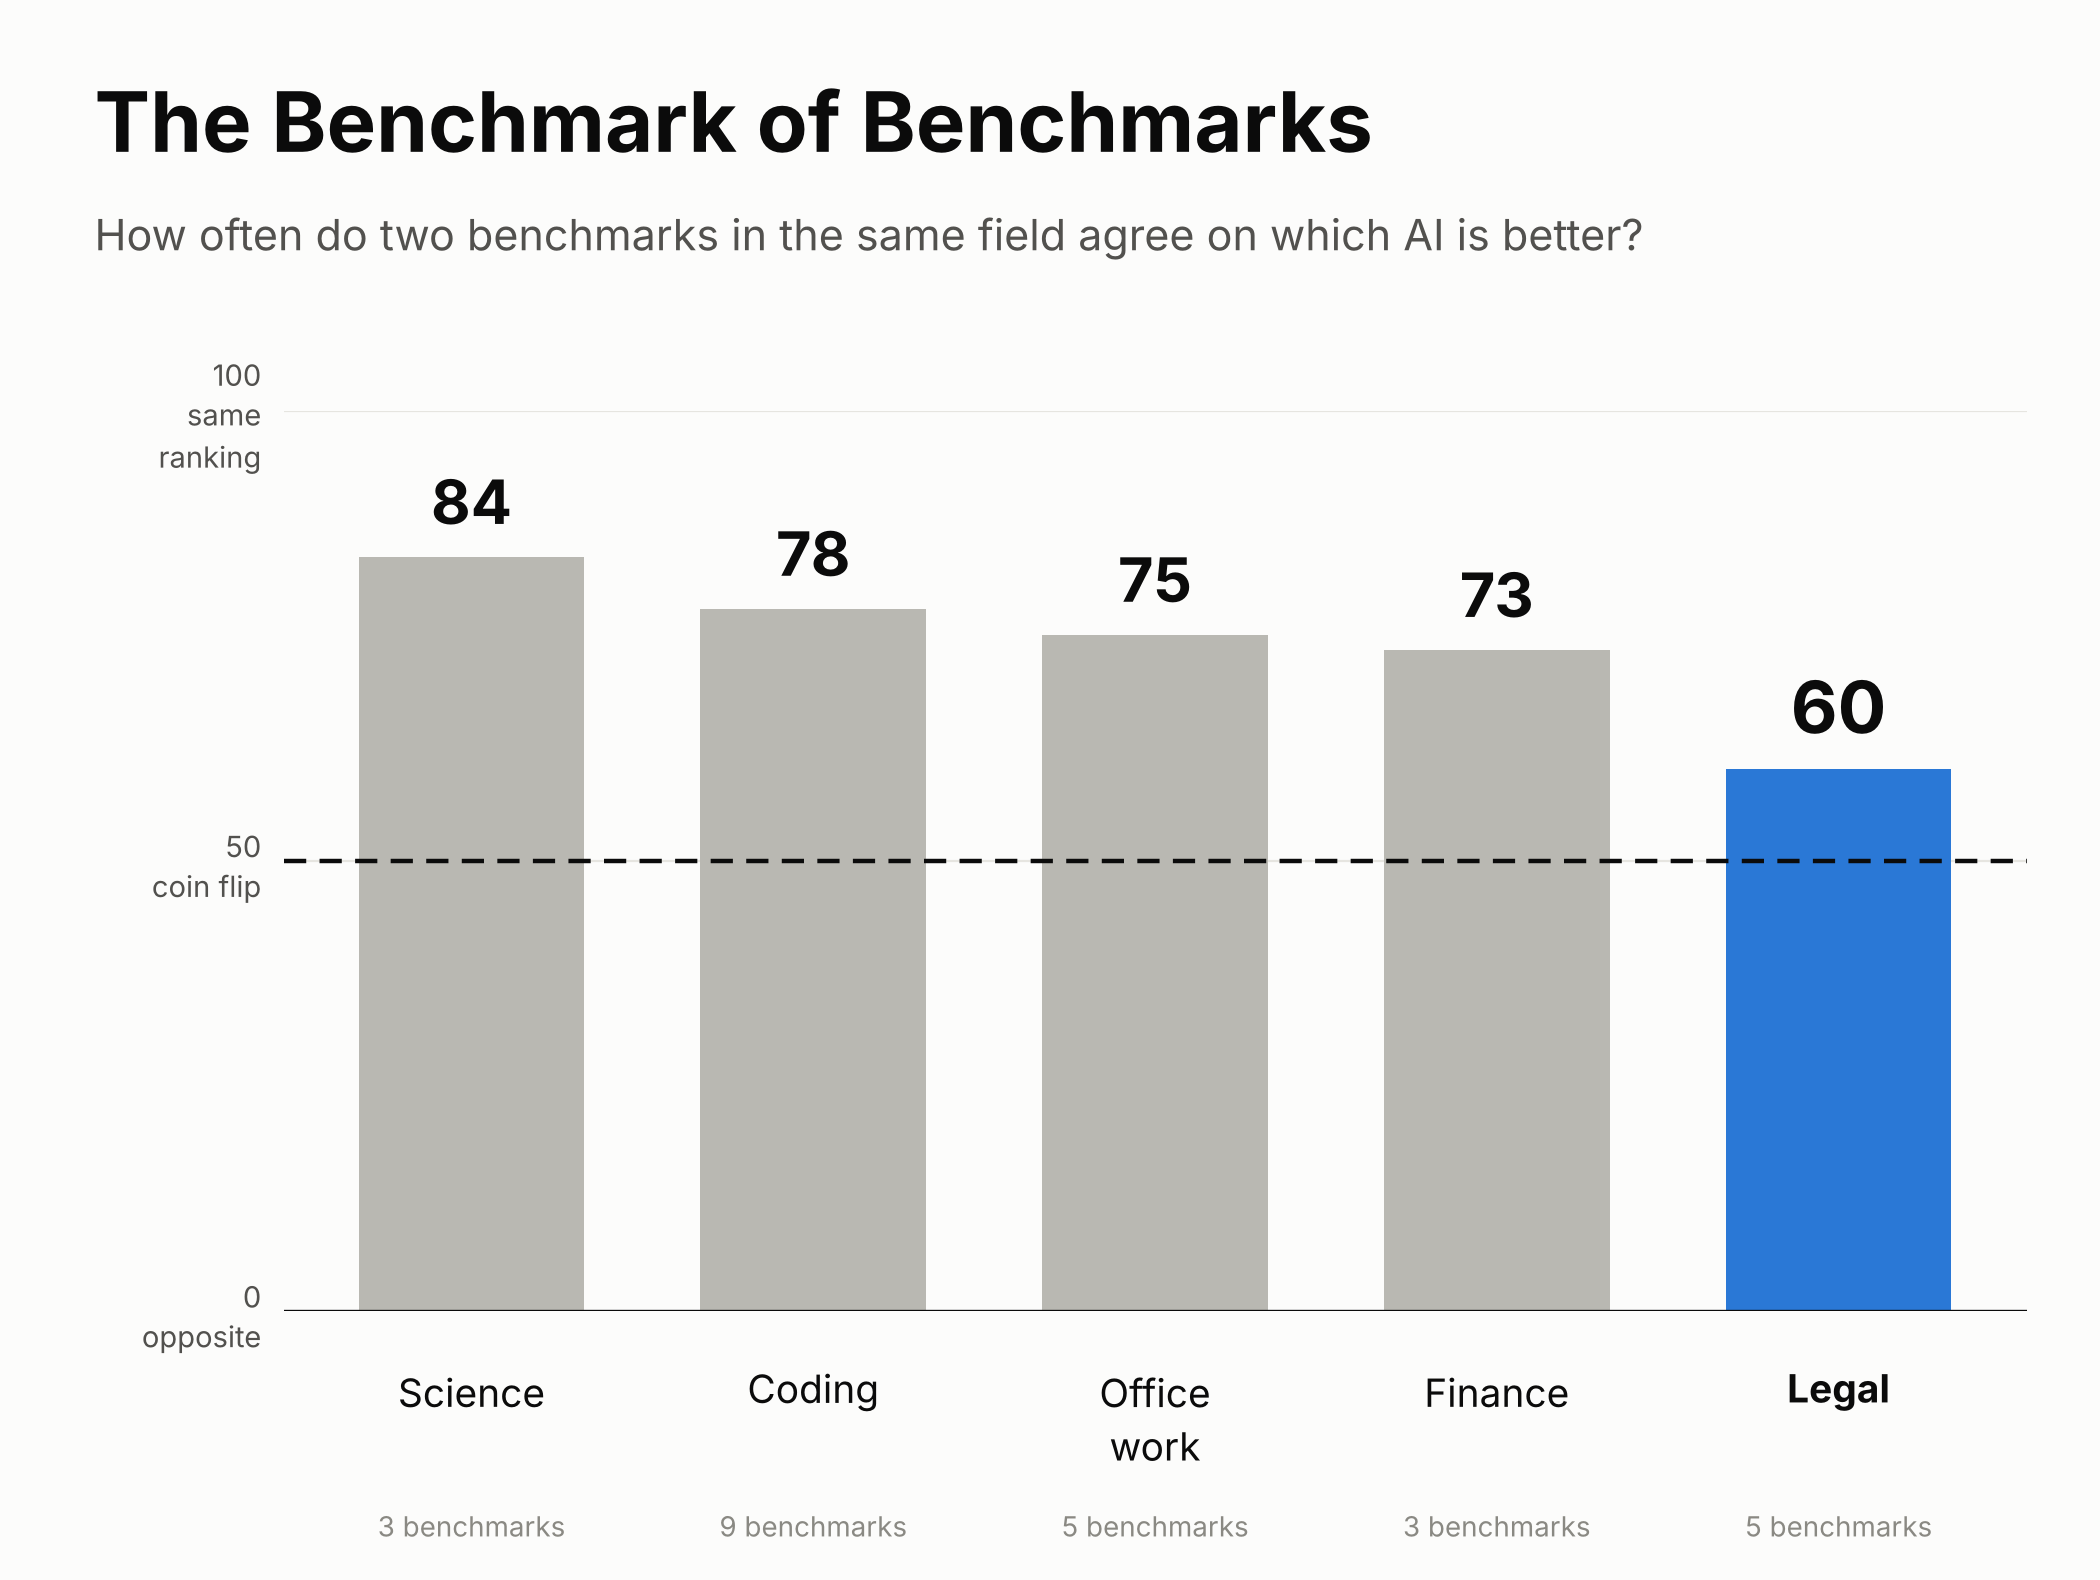
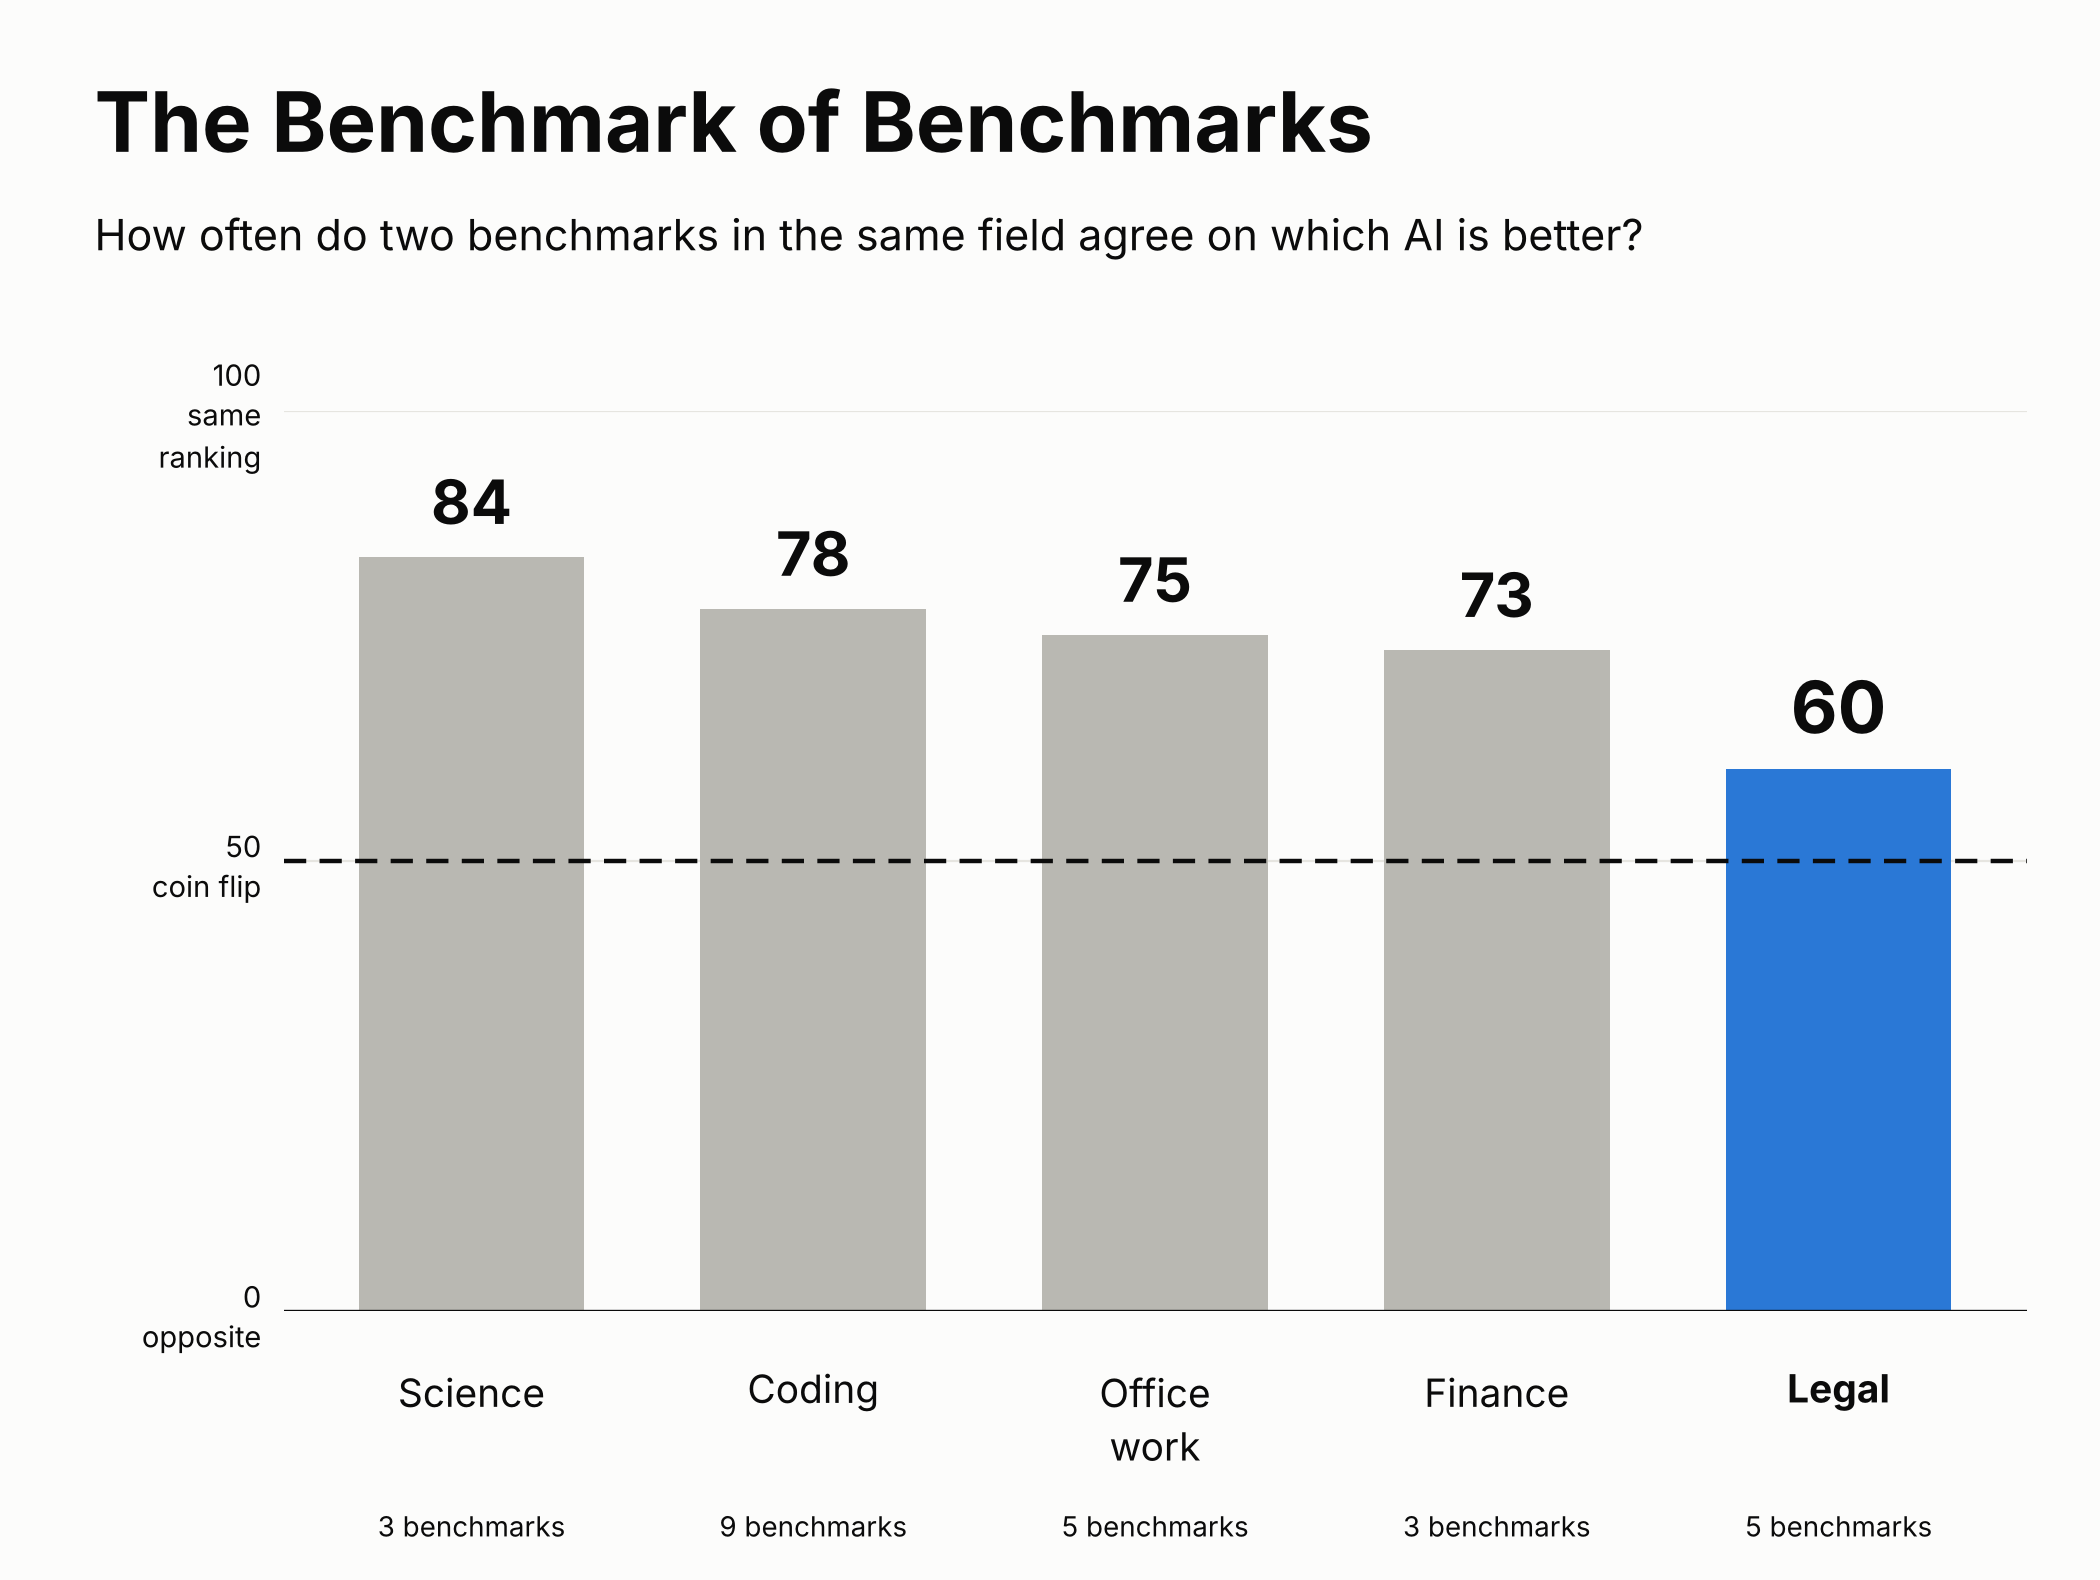
Benchmark agreement draft: slide text in black
Claude-Session: https://claude.ai/code/session_01TmipKRsNqkBmauKHC5vEDZ

diff --git a/benchmark-agreement/scripts/slides_nofooter.py b/benchmark-agreement/scripts/slides_nofooter.py
@@ -2,7 +2,7 @@ import json, matplotlib
 matplotlib.use('Agg')
 import matplotlib.pyplot as plt
 A=json.load(open('data/audit_fields.json')); C=json.load(open('data/concord.json'))
-INK='#0b0b0b'; SEC='#52514e'; MUTE='#8a8983'; GRID='#e6e5e0'; SURF='#fcfcfb'; BLUE='#2a78d6'; GRAY='#b9b8b2'
+INK='#0b0b0b'; SEC='#0b0b0b'; MUTE='#0b0b0b'; GRID='#e6e5e0'; SURF='#fcfcfb'; BLUE='#2a78d6'; GRAY='#b9b8b2'
 OUT='/home/user/lawyerbenchmarks/benchmark-agreement/'
 def frame(title,sub,foot,bottom=0.17):
     fig,ax=plt.subplots(figsize=(10.5,7.9),dpi=200); fig.patch.set_facecolor(SURF); ax.set_facecolor(SURF)
